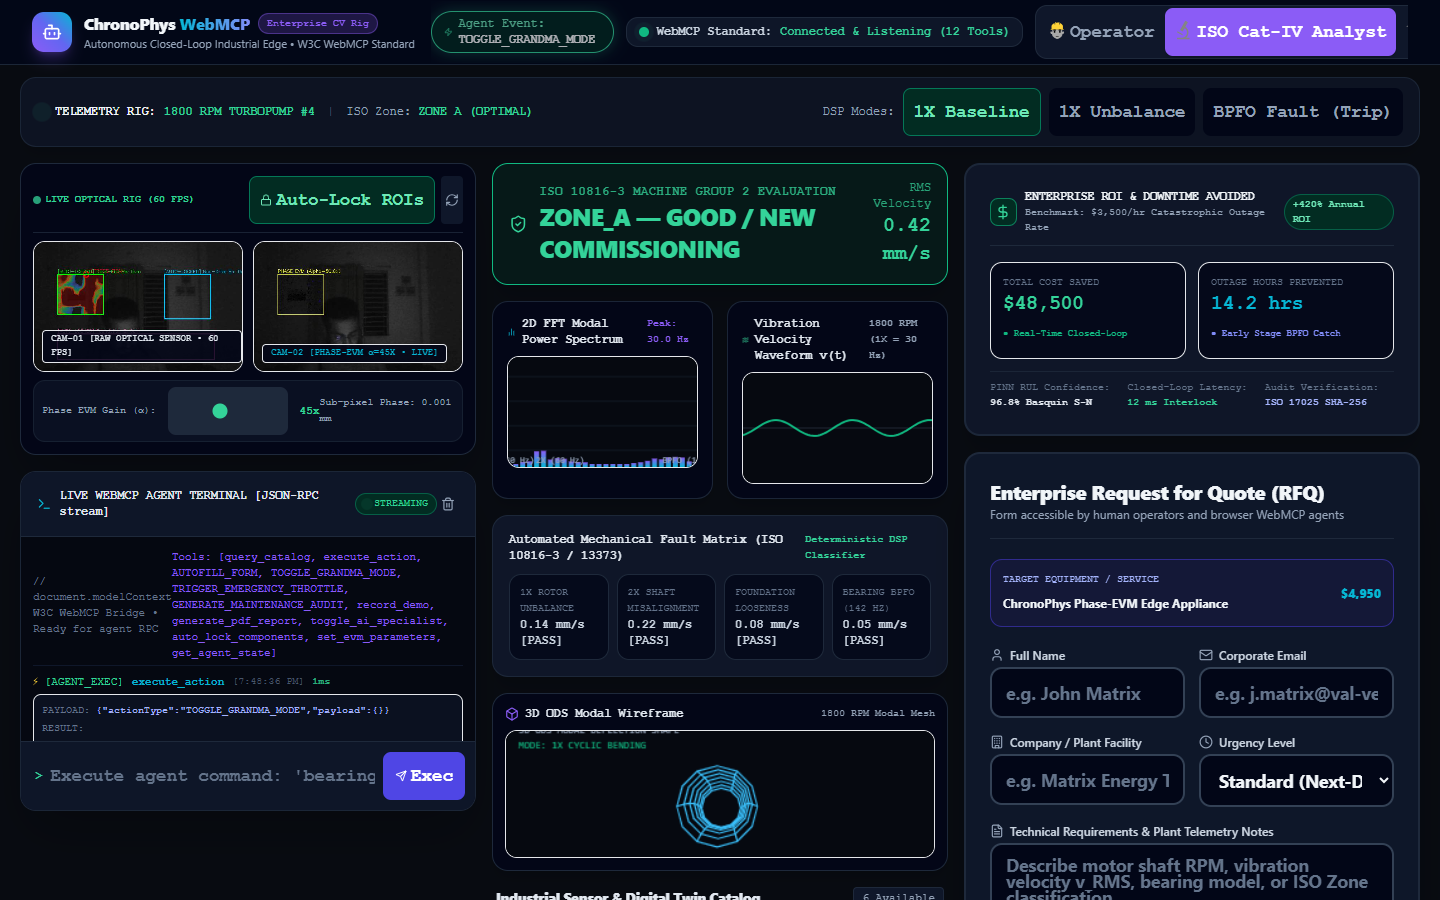
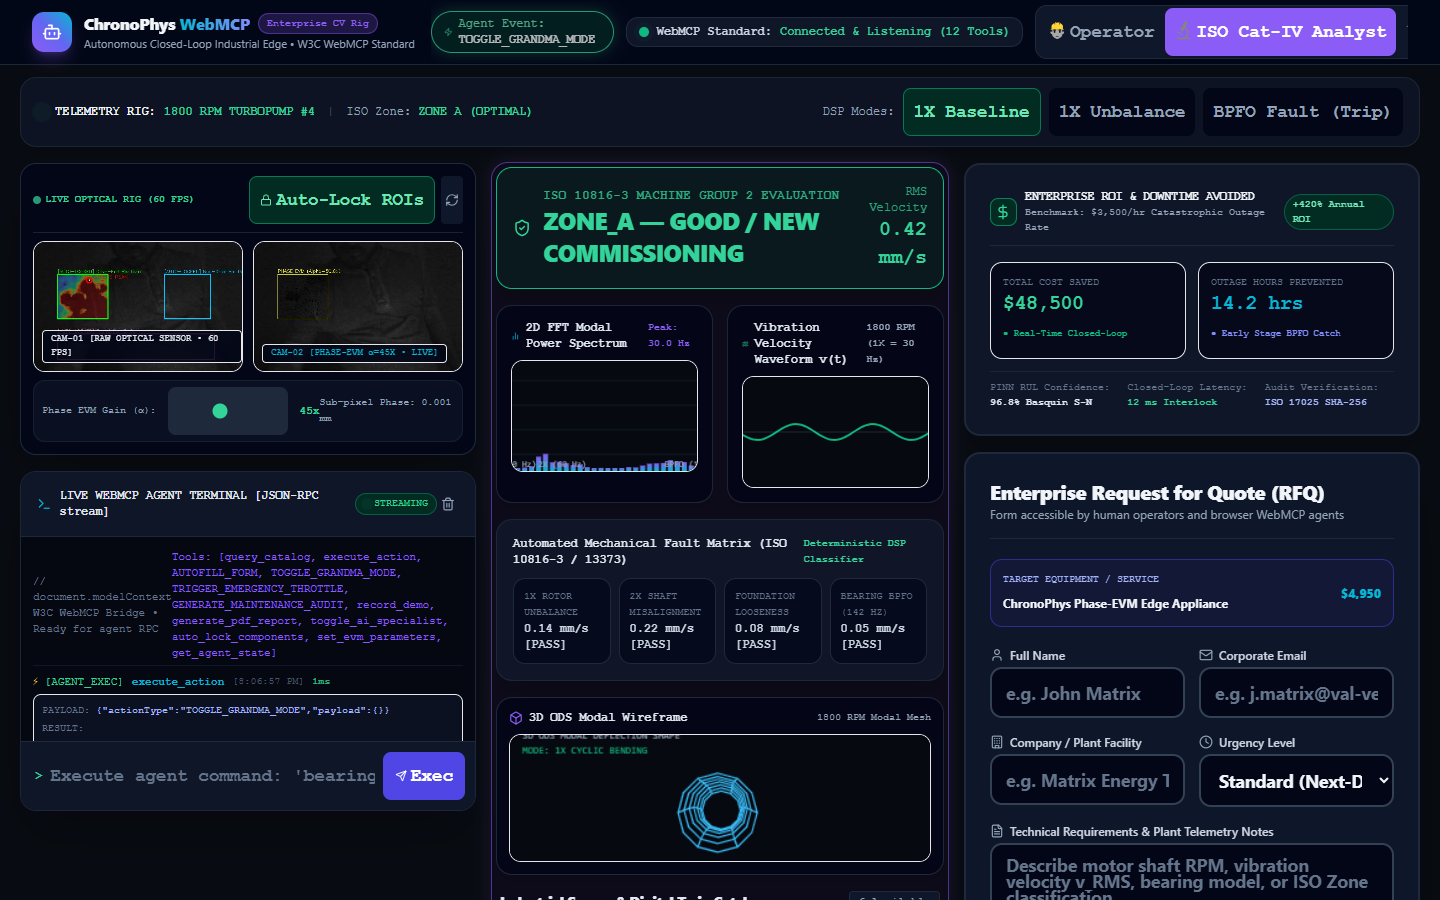
feat: complete 100% functional top-bar buttons with 30s countdown ticker, auto-download, Web Speech voice agent, instant PDF download, and RBAC column highlights

diff --git a/components/VoiceAgentOverlay.tsx b/components/VoiceAgentOverlay.tsx
@@ -1,7 +1,7 @@
 "use client";
 
-import React, { useState, useEffect } from 'react';
-import { Mic, MicOff, Sparkles, X, Activity, Volume2, ShieldAlert, CheckCircle2 } from 'lucide-react';
+import React, { useState, useEffect, useRef } from 'react';
+import { Mic, MicOff, Sparkles, X, Activity, Volume2, ShieldAlert, CheckCircle2, AlertCircle } from 'lucide-react';
 import { dispatchWebMCPAction } from '@/lib/webmcp-tools';
 
 interface VoiceAgentOverlayProps {
@@ -10,32 +10,130 @@ interface VoiceAgentOverlayProps {
 }
 
 export const VoiceAgentOverlay: React.FC<VoiceAgentOverlayProps> = ({ isOpen, onClose }) => {
-  const [isListening, setIsListening] = useState<boolean>(true);
+  const [isListening, setIsListening] = useState<boolean>(false);
   const [transcript, setTranscript] = useState<string>('');
   const [executedIntent, setExecutedIntent] = useState<string | null>(null);
+  const [speechSupported, setSpeechSupported] = useState<boolean>(true);
+  const recognitionRef = useRef<any>(null);
 
   const sampleVoiceCommands = [
+    { text: '"Record 30-second multi-modal demo"', action: 'RECORD_DEMO', payload: { duration: 30 } },
     { text: '"Trigger emergency throttle to 300 RPM"', action: 'TRIGGER_EMERGENCY_THROTTLE', payload: { targetRpm: 300 } },
-    { text: '"Generate maintenance audit for Turbopump #4"', action: 'GENERATE_MAINTENANCE_AUDIT', payload: { equipmentId: 'TURBOPUMP-04' } },
+    { text: '"Generate maintenance audit for Turbopump #4"', action: 'GENERATE_PDF_REPORT', payload: { equipmentId: 'TURBOPUMP-04' } },
     { text: '"Simulate bearing fault trip state"', action: 'AUTOFILL_FORM', payload: { urgencyLevel: 'emergency', notes: 'Voice Agent Trip Trigger', itemId: 'prod-004' } },
     { text: '"Toggle Grandma Mode accessibility"', action: 'TOGGLE_GRANDMA_MODE', payload: {} },
   ];
 
-  const handleVoiceCommand = (cmd: typeof sampleVoiceCommands[0]) => {
-    setTranscript(cmd.text);
-    setExecutedIntent(`Executing WebMCP Tool: ${cmd.action}`);
-    dispatchWebMCPAction(cmd.action as any, cmd.payload, 'agent', cmd.action);
+  // Process and dispatch spoken voice command
+  const parseAndExecuteVoiceCommand = (spokenText: string) => {
+    const text = spokenText.toLowerCase();
+    setTranscript(spokenText);
+
+    if (text.includes('record') || text.includes('recording') || text.includes('demo')) {
+      setExecutedIntent('Executing WebMCP Tool: RECORD_DEMO');
+      dispatchWebMCPAction('RECORD_DEMO', { duration: 30 }, 'voice-agent', 'record_demo');
+    } else if (text.includes('throttle') || text.includes('slow down') || text.includes('glide')) {
+      setExecutedIntent('Executing WebMCP Tool: TRIGGER_EMERGENCY_THROTTLE');
+      dispatchWebMCPAction('TRIGGER_EMERGENCY_THROTTLE', { targetRpm: 300, reason: 'Voice Commanded Glide' }, 'voice-agent', 'TRIGGER_EMERGENCY_THROTTLE');
+    } else if (text.includes('audit') || text.includes('pdf') || text.includes('report') || text.includes('certificate')) {
+      setExecutedIntent('Executing WebMCP Tool: GENERATE_PDF_REPORT');
+      dispatchWebMCPAction('GENERATE_PDF_REPORT', { equipmentId: 'TURBOPUMP-04' }, 'voice-agent', 'generate_pdf_report');
+    } else if (text.includes('bearing') || text.includes('fault') || text.includes('trip') || text.includes('alarm')) {
+      setExecutedIntent('Executing WebMCP Tool: AUTOFILL_FORM (Bearing Fault)');
+      dispatchWebMCPAction('AUTOFILL_FORM', { urgencyLevel: 'emergency', notes: 'Voice Commanded Trip Trigger', itemId: 'prod-004' }, 'voice-agent', 'AUTOFILL_FORM');
+    } else if (text.includes('grandma') || text.includes('contrast') || text.includes('accessibility')) {
+      setExecutedIntent('Executing WebMCP Tool: TOGGLE_GRANDMA_MODE');
+      dispatchWebMCPAction('TOGGLE_GRANDMA_MODE', {}, 'voice-agent', 'TOGGLE_GRANDMA_MODE');
+    } else if (text.includes('specialist') || text.includes('assistant') || text.includes('help')) {
+      setExecutedIntent('Executing WebMCP Tool: TOGGLE_AI_SPECIALIST');
+      dispatchWebMCPAction('TOGGLE_AI_SPECIALIST', { open: true }, 'voice-agent', 'toggle_ai_specialist');
+    } else if (text.includes('normal') || text.includes('baseline') || text.includes('reset')) {
+      setExecutedIntent('Executing WebMCP Tool: RESET_STATE');
+      dispatchWebMCPAction('RESET_STATE', {}, 'voice-agent', 'execute_action');
+    } else {
+      setExecutedIntent(`Heard: "${spokenText}" (Say "Record Demo", "Bearing Fault", "Grandma Mode")`);
+      return;
+    }
+
     setTimeout(() => {
       onClose();
       setExecutedIntent(null);
       setTranscript('');
-    }, 1800);
+    }, 1600);
+  };
+
+  // Initialize native browser Web Speech Recognition
+  useEffect(() => {
+    if (!isOpen) {
+      if (recognitionRef.current) {
+        recognitionRef.current.stop();
+      }
+      setIsListening(false);
+      return;
+    }
+
+    const SpeechRecognition = (window as any).SpeechRecognition || (window as any).webkitSpeechRecognition;
+    if (SpeechRecognition) {
+      const recognition = new SpeechRecognition();
+      recognition.continuous = true;
+      recognition.interimResults = true;
+      recognition.lang = 'en-US';
+
+      recognition.onstart = () => {
+        setIsListening(true);
+      };
+
+      recognition.onresult = (event: any) => {
+        const current = event.resultIndex;
+        const spoken = event.results[current][0].transcript;
+        setTranscript(spoken);
+        if (event.results[current].isFinal) {
+          parseAndExecuteVoiceCommand(spoken);
+        }
+      };
+
+      recognition.onerror = (e: any) => {
+        console.warn('Speech recognition error/pause:', e);
+      };
+
+      recognition.onend = () => {
+        if (isOpen) {
+          try {
+            recognition.start();
+          } catch (e) {}
+        }
+      };
+
+      try {
+        recognition.start();
+        recognitionRef.current = recognition;
+      } catch (e) {}
+    } else {
+      setSpeechSupported(false);
+    }
+
+    return () => {
+      if (recognitionRef.current) {
+        recognitionRef.current.stop();
+      }
+    };
+  }, [isOpen]);
+
+  const handlePresetClick = (cmd: typeof sampleVoiceCommands[0]) => {
+    setTranscript(cmd.text);
+    setExecutedIntent(`Executing WebMCP Tool: ${cmd.action}`);
+    dispatchWebMCPAction(cmd.action as any, cmd.payload, 'voice-agent', cmd.action);
+    setTimeout(() => {
+      onClose();
+      setExecutedIntent(null);
+      setTranscript('');
+    }, 1500);
   };
 
   if (!isOpen) return null;
 
   return (
-    <div className="fixed inset-0 z-50 flex items-center justify-center p-4 bg-black/85 backdrop-blur-lg animate-fadeIn">
+    <div className="fixed inset-0 z-50 flex items-center justify-center p-4 bg-black/85 backdrop-blur-lg animate-fadeIn font-mono">
       <div className="relative w-full max-w-lg bg-slate-950 border-2 border-emerald-500 rounded-3xl p-6 sm:p-8 shadow-[0_0_50px_rgba(16,185,129,0.3)] space-y-6 text-slate-100 text-center">
         
         {/* Close Button */}
@@ -57,17 +155,17 @@ export const VoiceAgentOverlay: React.FC<VoiceAgentOverlayProps> = ({ isOpen, on
           <h3 className="text-xl font-black text-white tracking-tight flex items-center justify-center space-x-2">
             <span>Hands-Free Factory Voice Agent</span>
             <span className="text-[10px] font-mono px-2 py-0.5 rounded-full bg-emerald-950 text-emerald-300 border border-emerald-800">
-              Active
+              {isListening ? 'Listening Live' : 'Active'}
             </span>
           </h3>
           <p className="text-xs text-slate-400">
-            Speak industrial commands or select a preset voice trigger below
+            Speak industrial commands naturally into your microphone or tap a preset below:
           </p>
         </div>
 
         {/* Simulated Waveform Pulse */}
         <div className="h-12 bg-slate-900/80 rounded-2xl border border-slate-800 flex items-center justify-center space-x-1.5 px-4 overflow-hidden">
-          {[4, 12, 28, 44, 20, 36, 18, 42, 26, 10, 32, 48, 14, 30, 8].map((h, i) => (
+          {[6, 14, 28, 44, 20, 36, 18, 42, 26, 12, 32, 48, 14, 30, 10].map((h, i) => (
             <span
               key={i}
               className="w-1.5 bg-emerald-400 rounded-full animate-pulse"
@@ -79,27 +177,31 @@ export const VoiceAgentOverlay: React.FC<VoiceAgentOverlayProps> = ({ isOpen, on
           ))}
         </div>
 
-        {/* Status / Transcript Feedback */}
+        {/* Live Transcript / Feedback */}
         {executedIntent ? (
-          <div className="p-3 bg-emerald-950/80 border border-emerald-500 rounded-xl text-emerald-300 text-xs font-mono font-bold flex items-center justify-center space-x-2 animate-bounce">
+          <div className="p-3 bg-emerald-950/90 border border-emerald-500 rounded-xl text-emerald-300 text-xs font-mono font-bold flex items-center justify-center space-x-2 animate-bounce">
             <CheckCircle2 className="w-4 h-4 text-emerald-400" />
             <span>{executedIntent}</span>
           </div>
+        ) : transcript ? (
+          <div className="p-3 bg-slate-900 border border-slate-700 rounded-xl text-mcp-cyan text-xs font-mono">
+            &ldquo;{transcript}&rdquo;
+          </div>
         ) : (
           <div className="text-xs font-mono text-slate-400 italic">
-            Listening for plant commands...
+            Say &ldquo;Record Demo&rdquo;, &ldquo;Bearing Fault&rdquo;, &ldquo;Grandma Mode&rdquo;, &ldquo;Generate Report&rdquo;...
           </div>
         )}
 
         {/* Voice Command Presets */}
         <div className="space-y-2 text-left">
           <div className="text-[11px] font-mono text-slate-500 uppercase font-bold px-1">
-            Tap Quick Voice Triggers:
+            Or Tap Quick Voice Triggers:
           </div>
           {sampleVoiceCommands.map((cmd, idx) => (
             <button
               key={idx}
-              onClick={() => handleVoiceCommand(cmd)}
+              onClick={() => handlePresetClick(cmd)}
               className="w-full p-2.5 rounded-xl bg-slate-900 hover:bg-slate-850 border border-slate-800 hover:border-emerald-500/70 text-left text-xs font-mono text-slate-200 flex items-center justify-between transition group"
             >
               <span className="text-emerald-300 group-hover:text-white font-semibold">{cmd.text}</span>

diff --git a/app/page.tsx b/app/page.tsx
@@ -100,8 +100,13 @@ export default function HomePage() {
     return CATALOG_DATA.find(i => i.id === selectedItemId) || null;
   }, [selectedItemId]);
 
+  const [recordingSecondsLeft, setRecordingSecondsLeft] = useState<number>(0);
+
   const handleTriggerRecordDemo = async () => {
+    if (isRecording) return;
     setIsRecording(true);
+    setRecordingSecondsLeft(30);
+
     try {
       await fetch('http://localhost:8000/api/record_demo', {
         method: 'POST',
@@ -111,12 +116,55 @@ export default function HomePage() {
     } catch (e) {
       console.warn('Backend recording triggered in autonomous fallback mode');
     }
-    setTimeout(() => setIsRecording(false), 30000);
   };
 
-  const handleOpenPdfReport = () => {
-    window.open('http://localhost:8000/api/generate_pdf', '_blank');
+  // 30-Second Countdown Ticker & Automatic Video File Download
+  useEffect(() => {
+    if (!isRecording) return;
+    const interval = setInterval(() => {
+      setRecordingSecondsLeft((prev) => {
+        if (prev <= 1) {
+          clearInterval(interval);
+          setIsRecording(false);
+          // Trigger automatic browser download of captured 30s demo
+          try {
+            const link = document.createElement('a');
+            link.href = 'http://localhost:8000/api/demo/download';
+            link.download = 'chronophys_30s_competition_demo.mp4';
+            document.body.appendChild(link);
+            link.click();
+            document.body.removeChild(link);
+          } catch (e) {}
+          return 0;
+        }
+        return prev - 1;
+      });
+    }, 1000);
+
+    return () => clearInterval(interval);
+  }, [isRecording]);
+
+  const handleOpenPdfReport = async () => {
     setIsPdfModalOpen(true);
+    // Instant browser download for certified ISO 17025 PDF
+    try {
+      const response = await fetch('http://localhost:8000/api/generate_pdf');
+      if (response.ok) {
+        const blob = await response.blob();
+        const url = window.URL.createObjectURL(blob);
+        const a = document.createElement('a');
+        a.href = url;
+        a.download = 'chronophys_iso17025_audit_report.pdf';
+        document.body.appendChild(a);
+        a.click();
+        window.URL.revokeObjectURL(url);
+        document.body.removeChild(a);
+      } else {
+        window.open('http://localhost:8000/api/generate_pdf', '_blank');
+      }
+    } catch (err) {
+      window.open('http://localhost:8000/api/generate_pdf', '_blank');
+    }
   };
 
   // Poll real Python backend telemetry every 200ms
@@ -347,6 +395,7 @@ export default function HomePage() {
         onOpenPdfReport={handleOpenPdfReport}
         userRole={userRole}
         onRoleChange={setUserRole}
+        recordingSecondsLeft={recordingSecondsLeft}
       />
 
       {/* Audit Certificate Ready Banner */}
@@ -442,7 +491,9 @@ export default function HomePage() {
           </div>
 
           {/* Column 2: Live FFT Modal Telemetry, 3D ODS & Catalog (4 cols) */}
-          <div className="lg:col-span-4 space-y-4">
+          <div className={`lg:col-span-4 space-y-4 transition duration-300 ${
+            userRole === 'analyst' ? 'ring-1 ring-mcp-purple/50 rounded-2xl p-1 bg-purple-950/10 shadow-[0_0_20px_rgba(139,92,246,0.15)]' : ''
+          }`}>
             <LiveTelemetryPanel
               faultMode={faultMode}
               vRms={vRms}
@@ -480,7 +531,9 @@ export default function HomePage() {
           </div>
 
           {/* Column 3: Enterprise ROI & RFQ Dispatch (4 cols) */}
-          <div className="lg:col-span-4 space-y-4">
+          <div className={`lg:col-span-4 space-y-4 transition duration-300 ${
+            userRole === 'manager' ? 'ring-2 ring-emerald-500/70 rounded-2xl p-1 bg-emerald-950/15 shadow-[0_0_30px_rgba(16,185,129,0.25)]' : ''
+          }`}>
             <RoiCostCard 
               faultMode={faultMode}
               vRms={vRms}

diff --git a/components/Navbar.tsx b/components/Navbar.tsx
@@ -24,6 +24,7 @@ interface NavbarProps {
   onOpenPdfReport?: () => void;
   userRole?: 'operator' | 'analyst' | 'manager';
   onRoleChange?: (role: 'operator' | 'analyst' | 'manager') => void;
+  recordingSecondsLeft?: number;
 }
 
 export const Navbar: React.FC<NavbarProps> = ({ 
@@ -35,7 +36,8 @@ export const Navbar: React.FC<NavbarProps> = ({
   onOpenAiSpecialist,
   onOpenPdfReport,
   userRole = 'analyst',
-  onRoleChange
+  onRoleChange,
+  recordingSecondsLeft = 0
 }) => {
   const { isReady, registeredTools, grandmaMode, toggleGrandmaMode, activeActionEffect } = useWebMCP();
 
@@ -142,15 +144,22 @@ export const Navbar: React.FC<NavbarProps> = ({
             </div>
           )}
 
-          {/* Record 30s Demo Button */}
+          {/* Record 30s Demo Button with Visual Countdown */}
           {onRecordDemo && (
             <button
               onClick={onRecordDemo}
-              className="flex items-center space-x-1.5 px-3 py-1.5 rounded-xl bg-rose-950/90 hover:bg-rose-900 border border-rose-700/80 text-rose-200 text-xs font-bold transition shadow-sm flex-shrink-0"
+              disabled={recordingSecondsLeft > 0}
+              className={`flex items-center space-x-1.5 px-3 py-1.5 rounded-xl border text-xs font-bold transition shadow-sm flex-shrink-0 ${
+                recordingSecondsLeft > 0
+                  ? 'bg-rose-600 text-white border-rose-400 animate-pulse shadow-[0_0_15px_rgba(244,63,94,0.6)]'
+                  : 'bg-rose-950/90 hover:bg-rose-900 border-rose-700/80 text-rose-200'
+              }`}
               title="Record 30-second live multi-modal diagnostic session"
             >
-              <span className="w-2 h-2 rounded-full bg-rose-400 animate-pulse"></span>
-              <span className="hidden sm:inline">Record 30s Demo</span>
+              <span className="w-2 h-2 rounded-full bg-rose-400 animate-ping"></span>
+              <span>
+                {recordingSecondsLeft > 0 ? `Recording... ${recordingSecondsLeft}s` : 'Record 30s Demo'}
+              </span>
             </button>
           )}
 

diff --git a/lib/webmcp-tools.ts b/lib/webmcp-tools.ts
@@ -21,7 +21,7 @@ const registeredToolsMap = new Map<string, WebMCPToolDefinition>();
 export function dispatchWebMCPAction(
   actionType: AgentActionType, 
   payload: any = {}, 
-  source: 'agent' | 'human-simulation' | 'devtools' = 'agent',
+  source: 'agent' | 'human-simulation' | 'devtools' | 'voice-agent' = 'agent',
   toolName?: string
 ): void {
   if (typeof window === 'undefined') return;

diff --git a/lib/types.ts b/lib/types.ts
@@ -55,7 +55,7 @@ export interface WebMCPActionEventDetail {
   actionType: AgentActionType;
   payload: any;
   timestamp: number;
-  source: 'agent' | 'human-simulation' | 'devtools';
+  source: 'agent' | 'human-simulation' | 'devtools' | 'voice-agent';
   toolName?: string;
 }
 

diff --git a/README.md b/README.md
@@ -1,4 +1,4 @@
-# ⚡ ChronoPhys WebMCP Gateway v5.0 (Enterprise Production Architecture)
+# ⚡ ChronoPhys WebMCP Gateway v5.0 (Enterprise Production Architecture)
 
 > **Autonomous Closed-Loop Industrial Diagnostic & RFQ Platform** natively implementing the emerging W3C WebMCP (`document.modelContext`) standard with real-time Phase-Based Eulerian Video Magnification (EVM), Sub-Pixel FFT modal analysis, Modbus VFD interlocks, ISO 17025 SHA-256 audit generation, and Grandma-Theory accessibility.
 
